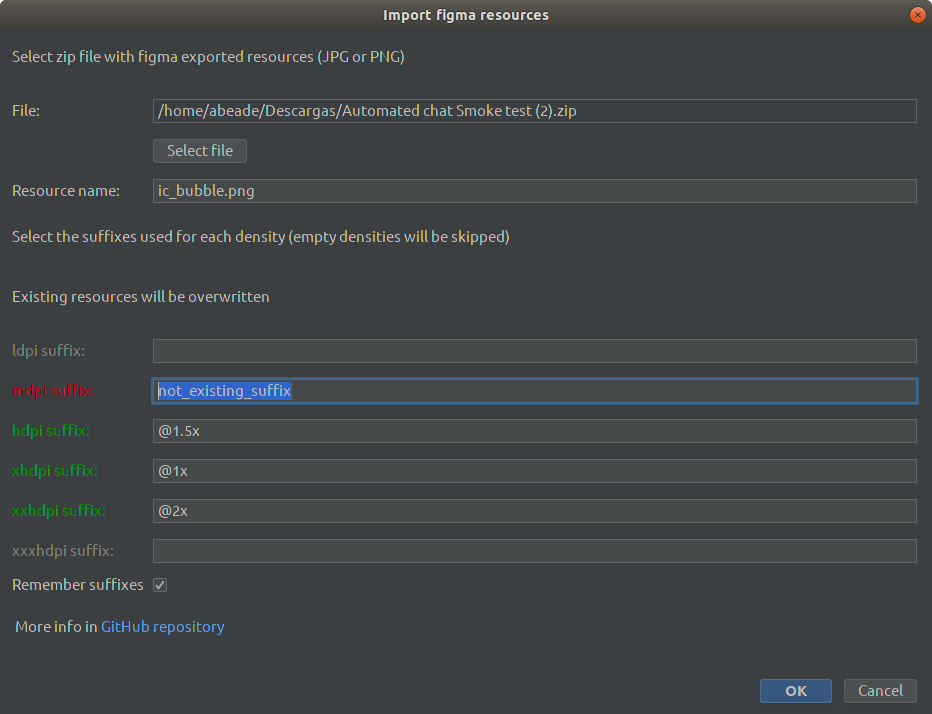
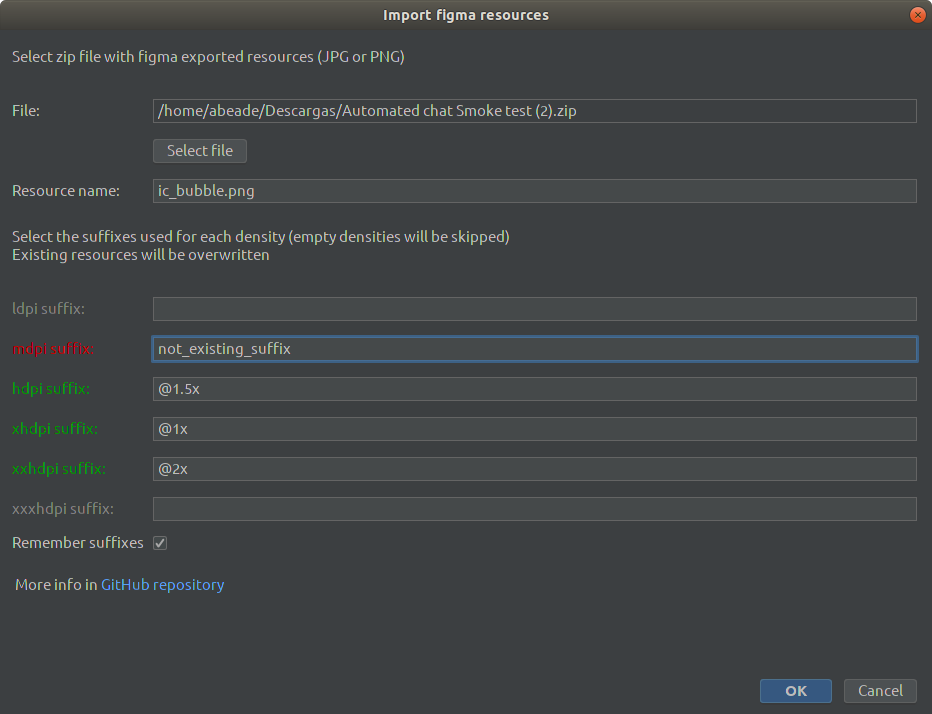
Fix wrong xxxhdpi resource folder

diff --git a/src/com/abeade/plugin/figma/ImportDialogWrapper.kt b/src/com/abeade/plugin/figma/ImportDialogWrapper.kt
@@ -30,7 +30,7 @@ class ImportDialogWrapper(private val propertiesComponent: PropertiesComponent) 
         private const val FOLDER_HDPI = "drawable-hdpi"
         private const val FOLDER_XHDPI = "drawable-xhdpi"
         private const val FOLDER_XXHDPI = "drawable-xxhdpi"
-        private const val FOLDER_XXXHDPI = "drawable-xxhdpi"
+        private const val FOLDER_XXXHDPI = "drawable-xxxhdpi"
         private const val RESOURCE_PREFIX = "ic_"
         private val COLOR_GREEN = Color(0, 154, 0)
         private val COLOR_RED = Color(204, 0, 0)
@@ -103,8 +103,7 @@ class ImportDialogWrapper(private val propertiesComponent: PropertiesComponent) 
             row("File:") { fileField() }
             row(String.EMPTY) { button("Select file") { openFile(directory) } }
             row("Resource name:") { resourceField() }
-            noteRow("Select the suffixes used for each density (empty densities will be skipped)")
-            noteRow("Existing resources will be overwritten")
+            noteRow("Select the suffixes used for each density (empty densities will be skipped)\nExisting resources will be overwritten")
             row {
                 ldpiLabel()
                 ldpiField()
